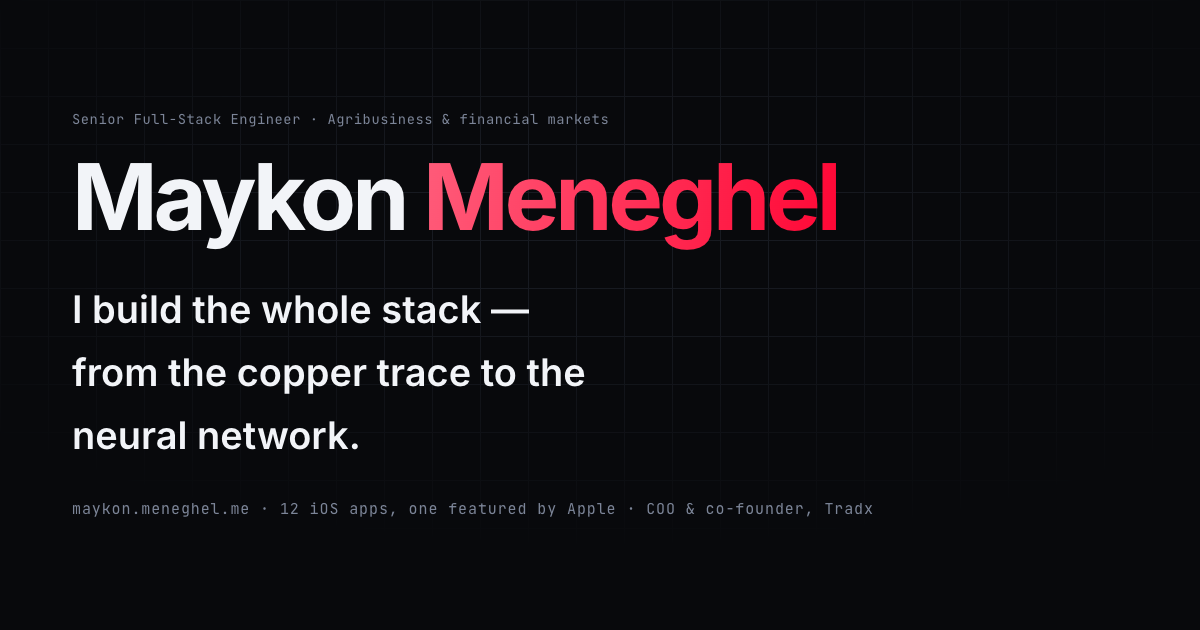
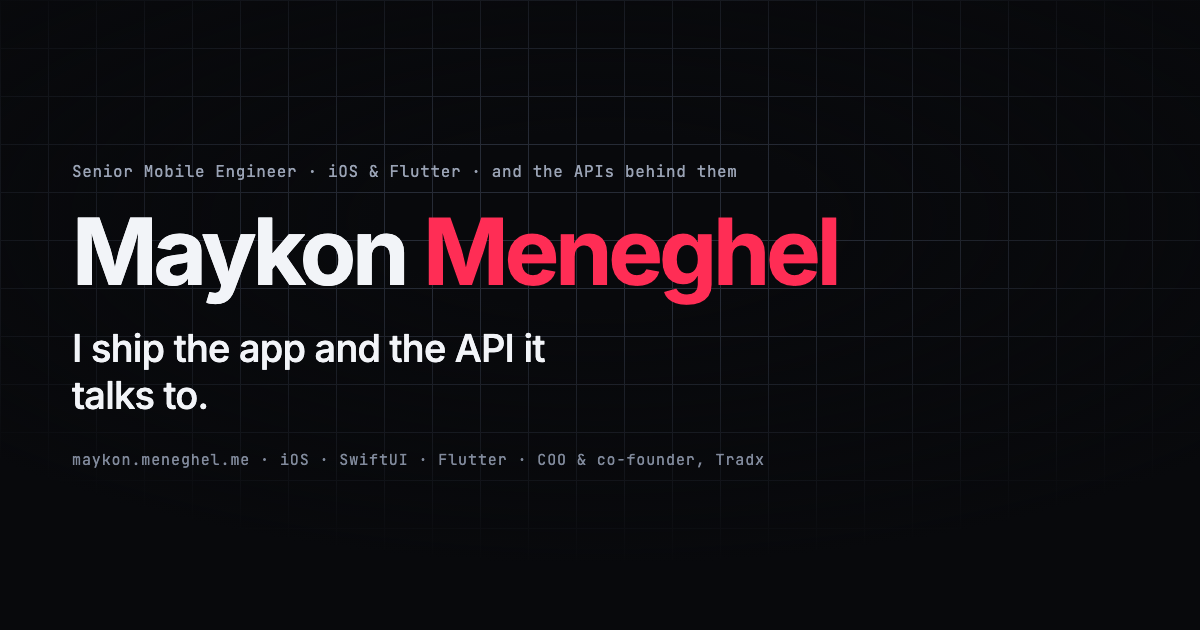
Make the page say the same thing everywhere it is read
A recruiter pass over the current state, and most of what it found was
not opinion — it was surfaces the mobile rebuild never reached.

The meta description still opened on firmware and PCBs. That is the line
Google prints, the line that renders when the link is pasted into Slack or
LinkedIn, and the first thing a screening model reads. It now says what
the hero says.

The closing line still read "from the solder joint to the model in
production — in agribusiness and in financial markets". The page opened on
mobile and closed on soldering, and a reader takes the last line as the
summary. It is now about the app and what it talks to.

Four cross-references broke when the hardware chapters moved to their own
page: the splatting chapter pointed at "chapter 03" for the mesh, which is
now the database chapter, and the GAN chapter ran its model on "the soil
probe from the chapters above", which are no longer above. They refer to
the thing instead of the number now.

And the share card still advertised twelve App Store apps, a week after
that claim came off every other surface. It was composed by stripping the
real hero and screenshotting it, which is both unrepeatable — the capture
never settles on a page whose chapters keep animating — and untied to the
copy, so nothing made it change when the copy did. There is a route for it
now, og.astro, with no scripts on it, and tools/build-og.sh to shoot it,
the same shape as the CV.
[…]

diff --git a/apps/maykon/src/content/es.ts b/apps/maykon/src/content/es.ts
@@ -4,7 +4,7 @@ export const es: Content = {
   meta: {
     title: 'Maykon Meneghel — el currículum jugable',
     description:
-      'Ingeniero full-stack sénior con máster y posgrado en IA. Firmware, PCBs, CAD, MQTT, Kubernetes, Swift y Flutter — explicados con minijuegos que puedes jugar en la propia página.',
+      'Ingeniero móvil sénior. iOS nativo en Swift y SwiftUI, multiplataforma en Flutter, y las APIs en Node, Java y Kubernetes detrás — explicados con mini-juegos que puedes jugar en la propia página.',
   },
   nav: { chapters: 'Capítulos', family: 'La familia', contact: 'Contacto', resume: 'Currículum' },
   hero: {
@@ -124,7 +124,7 @@ export const es: Content = {
       track: 'ai', codename: 'MENTE', slug: 'mind',
       era: 'StockGAN · 2021',
       title: 'Enseña a la máquina a adivinar qué viene después',
-      lede: 'En 2021 construí desde cero una red generativa adversaria para series temporales — el trabajo en el que mi posgrado en IA y mi máster en Bioingeniería dejan de ser líneas en un diploma — dos redes, una intentando inventar la siguiente lectura y otra intentando pillarla mintiendo. La entrené con datos financieros. Aquí corre sobre la sonda de suelo de los capítulos de arriba, sin cambiar nada, porque una serie temporal no sabe qué mide.',
+      lede: 'En 2021 construí desde cero una red generativa adversaria para series temporales — el trabajo en el que mi posgrado en IA y mi máster en Bioingeniería dejan de ser líneas en un diploma — dos redes, una intentando inventar la siguiente lectura y otra intentando pillarla mintiendo. La entrené con datos financieros. Aquí corre sobre una sonda de suelo que diseñé y enterré años antes, sin cambiar nada, porque una serie temporal no sabe qué mide.',
       panel: 'gan_model.py — train_step()',
       takeaway: 'Dos modelos, una función de pérdida y una perilla entre ellos. Exígele al pronosticador que quede cerca y responde con el promedio de todo, que es seguro e inútil. Exígele que sea creíble y responde con algo que se mueve como el sensor y no sabe nada. <b>Cada modelo que entrego es ese intercambio hecho a propósito</b>, escrito y medido.',
       stack: ['TensorFlow / Keras', 'GANs', 'LSTM', 'Series temporales', 'Selección de features con PCA y XGBoost'],
@@ -133,7 +133,7 @@ export const es: Content = {
       track: 'ai', codename: 'CAMPO', slug: 'field',
       era: 'Gaussian splatting · hoy',
       title: 'Y ahora el objeto está hecho de luz',
-      lede: 'En esto paso los días ahora: Gaussian Splatting. Una escena deja de ser una superficie que alguien modeló y pasa a ser una nube de gaussianas orientadas, ajustadas por descenso de gradiente hasta que sus renders coinciden con las fotografías. Las reconstrucciones de verdad empiezan con una cámara recorriendo una sala. La demo de abajo a propósito no lo hace — usa una pieza que ya conociste en el capítulo 03, porque la única forma de ver qué cambia el método es ver el mismo objeto construido de las dos formas.',
+      lede: 'En esto paso los días ahora: Gaussian Splatting. Una escena deja de ser una superficie que alguien modeló y pasa a ser una nube de gaussianas orientadas, ajustadas por descenso de gradiente hasta que sus renders coinciden con las fotografías. Las reconstrucciones de verdad empiezan con una cámara recorriendo una sala. La demo de abajo a propósito no lo hace — usa una pieza que yo mismo diseñé e imprimí, porque la única forma de ver qué cambia el método es ver el mismo objeto construido de las dos formas.',
       panel: 'gaussian splatting · viewer',
       takeaway: 'Una malla dice dónde están las <b>superficies</b>, y un ingeniero dibujó cada una. Un campo de splats dice dónde está la <b>luz</b>, y nadie dibujó nada — se ajustó hasta que el render dejó de contradecir a la fotografía.',
       stack: ['Gaussian Splatting', '3DGS', 'PyTorch', 'CUDA', 'Fotogrametría', 'Campos de radiancia'],
@@ -240,8 +240,8 @@ export const es: Content = {
       },
     },
     closing: {
-      line: 'Full stack sénior, desde el punto de soldadura hasta el modelo en producción — en el agro y en los mercados financieros.',
-      note: 'La placa, el firmware, el broker, la base de datos, el clúster, el modelo y la pantalla del móvil. Todavía no he conocido a la otra persona que hace los dos extremos de los dos.',
+      line: 'Construyo la app, y construyo aquello con lo que habla.',
+      note: 'La pantalla, el estado en ella, la API que la llena, la base de datos debajo, y el modelo que lo lee. La mayoría domina una de esas. Yo he entregado todas, y sigo sabiendo cuál es la parte difícil.',
     },
     contact: {
       title: 'Hablemos',
@@ -317,7 +317,7 @@ export const es: Content = {
     wasteful: 'sobredimensionado',
   },
   mind: {
-    lede: 'En 2021 escribí una GAN que pronostica el siguiente valor de una serie temporal — generador, discriminador y bucle de entrenamiento desde cero. La entrené con treinta años de barras diarias, porque ahí era donde había histórico limpio y gratis, pero la red lee log-retornos y no tiene ni idea de qué miden los números. Así que aquí está corriendo sobre la sonda de suelo de los capítulos de arriba. Lo que vale la pena mostrar es esto: el discriminador nunca juzga una lectura prevista por sí sola. La lectura se pega a las nueve reales que vinieron antes, y la red tiene que decir si la ventana entera salió del sensor. Ese es el juego. Tú eres el discriminador.',
+    lede: 'En 2021 escribí una GAN que pronostica el siguiente valor de una serie temporal — generador, discriminador y bucle de entrenamiento desde cero. La entrené con treinta años de barras diarias, porque ahí era donde había histórico limpio y gratis, pero la red lee log-retornos y no tiene ni idea de qué miden los números. Así que aquí está corriendo sobre una sonda de suelo que construí años antes de todo esto. Lo que vale la pena mostrar es esto: el discriminador nunca juzga una lectura prevista por sí sola. La lectura se pega a las nueve reales que vinieron antes, y la red tiene que decir si la ventana entera salió del sensor. Ese es el juego. Tú eres el discriminador.',
     paper: 'StockGAN · LSTM(128) · ventana de 10 · entrenada con 30 años de barras diarias, corriendo aquí sobre soil-1',
     reading: 'soil-1 · invernadero · % de humedad',
     question: 'Una de estas dos ventanas termina con una lectura que la sonda tomó de verdad. La otra termina con una que inventó el generador. ¿Cuál es cuál?',
@@ -558,7 +558,7 @@ export const es: Content = {
     reveal: 'Entre las 75.429 combinaciones de parámetros, el conjunto que más rindió en la mitad donde ajustaste quedó en el puesto 22.949 en la mitad que no viste. Del primer puesto al vigésimo segundo milésimo. Por eso un backtest es una hipótesis y no un resultado, y por eso el número bonito es la parte fácil.',
   },
   field: {
-    lede: 'Un objeto, construido dos veces. A un lado del interruptor es la malla del capítulo 03, con la que se imprimió la pieza. Al otro es un campo de gaussianas sobre esa misma malla — repartidas aquí en vez de ajustadas, para que los dos queden lado a lado y la diferencia sea el método y nada más.',
+    lede: 'Un objeto, construido dos veces. A un lado del interruptor es la malla con la que se imprimió la pieza. Al otro es un campo de gaussianas sobre esa misma malla — repartidas aquí en vez de ajustadas, para que los dos queden lado a lado y la diferencia sea el método y nada más.',
     mesh: 'Malla', splats: 'Gaussianas',
     count: 'Gaussianas', size: 'Dispersión', spin: 'arrastra para girar',
     primitives: 'Primitivas', authored: 'Hechas a mano',

diff --git a/apps/maykon/src/content/pt.ts b/apps/maykon/src/content/pt.ts
@@ -4,7 +4,7 @@ export const pt: Content = {
   meta: {
     title: 'Maykon Meneghel — o currículo jogável',
     description:
-      'Engenheiro full-stack sênior com mestrado e pós em IA. Firmware, PCBs, CAD, MQTT, Kubernetes, Swift e Flutter — explicados em mini-jogos que você joga na própria página.',
+      'Engenheiro mobile sênior. iOS nativo em Swift e SwiftUI, cross-platform em Flutter, e as APIs em Node, Java e Kubernetes por trás — explicados através de mini-jogos que você joga na própria página.',
   },
   nav: { chapters: 'Capítulos', family: 'A família', contact: 'Contato', resume: 'Currículo' },
   hero: {
@@ -124,7 +124,7 @@ export const pt: Content = {
       track: 'ai', codename: 'MENTE', slug: 'mind',
       era: 'StockGAN · 2021',
       title: 'Ensine a máquina a adivinhar o que vem depois',
-      lede: 'Em 2021 eu construí do zero uma rede adversária generativa para séries temporais — o trabalho em que a minha pós em IA e o mestrado em Bioengenharia deixam de ser linhas num diploma — duas redes, uma tentando inventar a próxima leitura e outra tentando pegá-la mentindo. Eu treinei em dados financeiros. Ela roda aqui na sonda de solo dos capítulos acima, sem mudar nada, porque uma série temporal não sabe o que ela mede.',
+      lede: 'Em 2021 eu construí do zero uma rede adversária generativa para séries temporais — o trabalho em que a minha pós em IA e o mestrado em Bioengenharia deixam de ser linhas num diploma — duas redes, uma tentando inventar a próxima leitura e outra tentando pegá-la mentindo. Eu treinei em dados financeiros. Ela roda aqui numa sonda de solo que eu projetei e enterrei anos antes, sem mudar nada, porque uma série temporal não sabe o que ela mede.',
       panel: 'gan_model.py — train_step()',
       takeaway: 'Dois modelos, uma função de perda e um botão entre eles. Cobre do previsor que ele fique perto e ele responde com a média de tudo, que é segura e inútil. Cobre que ele seja crível e ele responde com algo que anda como o sensor e não sabe de nada. <b>Todo modelo que eu entrego é essa troca feita de propósito</b>, escrita e medida.',
       stack: ['TensorFlow / Keras', 'GANs', 'LSTM', 'Séries temporais', 'Seleção de features com PCA e XGBoost'],
@@ -133,7 +133,7 @@ export const pt: Content = {
       track: 'ai', codename: 'CAMPO', slug: 'field',
       era: 'Gaussian splatting · hoje',
       title: 'E agora o objeto é feito de luz',
-      lede: 'É nisso que eu passo os dias agora: Gaussian Splatting. Uma cena deixa de ser uma superfície que alguém modelou e vira uma nuvem de gaussianas orientadas, ajustadas por gradiente descendente até que renders delas batam com as fotografias. Reconstruções de verdade começam com uma câmera andando pela sala. A demo aqui embaixo de propósito não faz isso — ela usa uma peça que você já conheceu no capítulo 03, porque o único jeito de ver o que o método muda é ver o mesmo objeto construído dos dois jeitos.',
+      lede: 'É nisso que eu passo os dias agora: Gaussian Splatting. Uma cena deixa de ser uma superfície que alguém modelou e vira uma nuvem de gaussianas orientadas, ajustadas por gradiente descendente até que renders delas batam com as fotografias. Reconstruções de verdade começam com uma câmera andando pela sala. A demo aqui embaixo de propósito não faz isso — ela usa uma peça que eu mesmo projetei e imprimi, porque o único jeito de ver o que o método muda é ver o mesmo objeto construído dos dois jeitos.',
       panel: 'gaussian splatting · viewer',
       takeaway: 'Uma malha diz onde estão as <b>superfícies</b>, e um engenheiro desenhou cada uma. Um campo de splats diz onde está a <b>luz</b>, e ninguém desenhou nada — ele foi ajustado até o render parar de discordar da fotografia.',
       stack: ['Gaussian Splatting', '3DGS', 'PyTorch', 'CUDA', 'Fotogrametria', 'Campos de radiância'],
@@ -240,8 +240,8 @@ export const pt: Content = {
       },
     },
     closing: {
-      line: 'Full stack sênior, do ponto de solda ao modelo em produção — no agro e no mercado financeiro.',
-      note: 'A placa, o firmware, o broker, o banco, o cluster, o modelo e a tela do celular. Ainda não conheci a outra pessoa que faz as duas pontas dos dois.',
+      line: 'Eu construo o app, e construo aquilo com que ele conversa.',
+      note: 'A tela, o estado nela, a API que a preenche, o banco embaixo disso, e o modelo que lê tudo. A maioria das pessoas domina uma dessas. Eu já entreguei todas, e ainda sei qual é a parte difícil.',
     },
     contact: {
       title: 'Fale comigo',
@@ -317,7 +317,7 @@ export const pt: Content = {
     wasteful: 'superdimensionado',
   },
   mind: {
-    lede: 'Em 2021 eu escrevi uma GAN que prevê o próximo valor de uma série temporal — gerador, discriminador e loop de treino do zero. Eu treinei em trinta anos de barras diárias, porque era ali que havia histórico limpo de graça, mas a rede lê log-retornos e não faz ideia do que os números medem. Então aqui ela está rodando na sonda de solo dos capítulos acima. A parte que vale mostrar é esta: o discriminador nunca julga uma leitura prevista sozinha. A leitura é colada nas nove reais que vieram antes, e a rede precisa dizer se a janela inteira saiu do sensor. É esse o jogo. Você é o discriminador.',
+    lede: 'Em 2021 eu escrevi uma GAN que prevê o próximo valor de uma série temporal — gerador, discriminador e loop de treino do zero. Eu treinei em trinta anos de barras diárias, porque era ali que havia histórico limpo de graça, mas a rede lê log-retornos e não faz ideia do que os números medem. Então aqui ela está rodando numa sonda de solo que eu construí anos antes de tudo isso. A parte que vale mostrar é esta: o discriminador nunca julga uma leitura prevista sozinha. A leitura é colada nas nove reais que vieram antes, e a rede precisa dizer se a janela inteira saiu do sensor. É esse o jogo. Você é o discriminador.',
     paper: 'StockGAN · LSTM(128) · janela de 10 · treinada em 30 anos de barras diárias, rodando aqui no soil-1',
     reading: 'soil-1 · estufa · % de umidade',
     question: 'Uma destas duas janelas termina com uma leitura que a sonda realmente fez. A outra termina com uma que o gerador inventou. Qual é qual?',
@@ -558,7 +558,7 @@ export const pt: Content = {
     reveal: 'Entre as 75.429 combinações de parâmetros, o conjunto que mais rendeu na metade em que você ajustou ficou em 22.949º lugar na metade que você não viu. Do primeiro lugar para o vigésimo segundo milésimo. É por isso que um backtest é uma hipótese e não um resultado, e por isso o número bonito é a parte fácil.',
   },
   field: {
-    lede: 'Um objeto, construído duas vezes. De um lado da chave é a malha do capítulo 03, aquela pela qual a peça foi impressa. Do outro é um campo de gaussianas sobre essa mesma malha — espalhadas aqui em vez de ajustadas, para os dois ficarem lado a lado e a diferença ser o método e mais nada.',
+    lede: 'Um objeto, construído duas vezes. De um lado da chave é a malha pela qual a peça foi impressa. Do outro é um campo de gaussianas sobre essa mesma malha — espalhadas aqui em vez de ajustadas, para os dois ficarem lado a lado e a diferença ser o método e mais nada.',
     mesh: 'Malha', splats: 'Gaussianas',
     count: 'Gaussianas', size: 'Espalhamento', spin: 'arraste para girar',
     primitives: 'Primitivas', authored: 'Feitas à mão',

diff --git a/apps/maykon/src/content/en.ts b/apps/maykon/src/content/en.ts
@@ -4,7 +4,7 @@ export const en: Content = {
   meta: {
     title: 'Maykon Meneghel — the playable CV',
     description:
-      'Senior full-stack engineer with a Master in AI. Firmware, PCBs, CAD, MQTT, Kubernetes, Swift and Flutter — explained through mini-games you can play right on the page.',
+      'Senior mobile engineer. Native iOS in Swift and SwiftUI, cross-platform in Flutter, and the Node, Java and Kubernetes APIs behind them — explained through mini-games you can play right on the page.',
   },
   nav: { chapters: 'Chapters', family: 'The family', contact: 'Contact', resume: 'Résumé' },
   hero: {
@@ -124,7 +124,7 @@ export const en: Content = {
       track: 'ai', codename: 'MIND', slug: 'mind',
       era: 'StockGAN · 2021',
       title: 'Teach the machine to guess what happens next',
-      lede: 'In 2021 I built a generative adversarial network for time series from scratch — the work where my postgraduate specialization in AI and my Master in Bioengineering stop being lines on a diploma — two networks, one trying to invent the next reading and one trying to catch it lying. I trained it on financial data. It runs here on the soil probe from the chapters above, unchanged, because a time series does not know what it measures.',
+      lede: 'In 2021 I built a generative adversarial network for time series from scratch — the work where my postgraduate specialization in AI and my Master in Bioengineering stop being lines on a diploma — two networks, one trying to invent the next reading and one trying to catch it lying. I trained it on financial data. It runs here on a soil probe I designed and buried years earlier, unchanged, because a time series does not know what it measures.',
       panel: 'gan_model.py — train_step()',
       takeaway: 'Two models, one loss function, and a knob between them. Grade the forecaster on being close and it answers with the average of everything, which is safe and useless. Grade it on being believable and it answers with something that moves like the sensor and knows nothing. <b>Every model I ship is that trade made on purpose</b>, written down, and measured.',
       stack: ['TensorFlow / Keras', 'GANs', 'LSTM', 'Time series', 'PCA & XGBoost feature selection'],
@@ -133,7 +133,7 @@ export const en: Content = {
       track: 'ai', codename: 'FIELD', slug: 'field',
       era: 'Gaussian splatting · today',
       title: 'And now the object is made of light',
-      lede: 'What I spend my days on now: Gaussian Splatting. A scene stops being a surface someone modelled and becomes a cloud of oriented gaussians, fitted by gradient descent until renders of them match the photographs. Real reconstructions start from a camera walking around a room. The demo below deliberately does not — it uses a part you already met in chapter 03, because the only way to see what the method changes is to watch the same object built both ways.',
+      lede: 'What I spend my days on now: Gaussian Splatting. A scene stops being a surface someone modelled and becomes a cloud of oriented gaussians, fitted by gradient descent until renders of them match the photographs. Real reconstructions start from a camera walking around a room. The demo below deliberately does not — it uses a part I designed and printed myself, because the only way to see what the method changes is to watch the same object built both ways.',
       panel: 'gaussian splatting · viewer',
       takeaway: 'A mesh says where the <b>surfaces</b> are, and an engineer drew every one. A splat field says where the <b>light</b> is, and nobody drew any of it — it was fitted until the render stopped disagreeing with the photograph.',
       stack: ['Gaussian Splatting', '3DGS', 'PyTorch', 'CUDA', 'Photogrammetry', 'Radiance fields'],
@@ -240,8 +240,8 @@ export const en: Content = {
       },
     },
     closing: {
-      line: 'Senior full-stack, from the solder joint to the model in production — in agribusiness and in financial markets.',
-      note: 'The board, the firmware, the broker, the database, the cluster, the model and the screen on the phone. I have yet to meet the other person who does both ends of both.',
+      line: 'I build the app, and I build what it talks to.',
+      note: 'The screen, the state on it, the API that fills it, the database under that, and the model that reads it. Most people own one of those. I have shipped all of them, and I still know which one is the hard part.',
     },
     contact: {
       title: 'Talk to me',
@@ -317,7 +317,7 @@ export const en: Content = {
     wasteful: 'over-provisioned',
   },
   mind: {
-    lede: 'In 2021 I wrote a GAN that forecasts the next value of a time series — generator, discriminator and training loop from scratch. I trained it on thirty years of daily bars, because that is where clean history was free, but the network reads log returns and has no idea what the numbers measure. So here it is running on the soil probe from the chapters above. The part worth showing is this: the discriminator never judges a predicted reading on its own. The reading is glued onto the nine real ones before it, and the network has to say whether the whole window came off the sensor. That is the game. You are the discriminator.',
+    lede: 'In 2021 I wrote a GAN that forecasts the next value of a time series — generator, discriminator and training loop from scratch. I trained it on thirty years of daily bars, because that is where clean history was free, but the network reads log returns and has no idea what the numbers measure. So here it is running on a soil probe I built years before any of this. The part worth showing is this: the discriminator never judges a predicted reading on its own. The reading is glued onto the nine real ones before it, and the network has to say whether the whole window came off the sensor. That is the game. You are the discriminator.',
     paper: 'StockGAN · LSTM(128) · window of 10 · trained on 30 years of daily bars, running here on soil-1',
     reading: 'soil-1 · greenhouse · % moisture',
     question: 'One of these two windows ends with a reading the probe actually took. The other ends with one the generator invented. Which is which?',
@@ -558,7 +558,7 @@ export const en: Content = {
     reveal: 'Across all 75,429 parameter combinations, the set that returned most on the half you tuned on came 22,949th on the half you had not seen. First place to twenty-two thousandth. That is why a backtest is a hypothesis and not a result, and why the beautiful number is the easy part.',
   },
   field: {
-    lede: 'One object, built twice. On the left of the switch it is the mesh from chapter 03, the one the part was printed from. On the right it is a field of gaussians over that same mesh — scattered here rather than fitted, so the two can sit side by side and the difference is the method and nothing else.',
+    lede: 'One object, built twice. On the left of the switch it is the mesh the part was printed from. On the right it is a field of gaussians over that same mesh — scattered here rather than fitted, so the two can sit side by side and the difference is the method and nothing else.',
     mesh: 'Mesh', splats: 'Gaussians',
     count: 'Gaussians', size: 'Spread', spin: 'drag to turn',
     primitives: 'Primitives', authored: 'Authored by hand',

diff --git a/README.md b/README.md
@@ -188,6 +188,24 @@ Primary `#FF2D55`, sampled directly out of `Portfolio-2024.pdf` — which happen
 to be Apple's system pink, fitting for someone who came up through the Apple
 Developer Academy. Deep accent `#FF0635`.
 
+## The share card
+
+`apps/maykon/src/pages/og.astro` is the Open Graph card as a route with no
+scripts on it, and `tools/build-og.sh` shoots it with headless Chrome. Run it
+whenever the hero changes:
+
+```sh
+npm run build && ./tools/build-og.sh && npm run build
+```
+
+It exists because the first version was composed by stripping the real hero and
+screenshotting that, which meant capturing a page whose chapters never stop
+animating — the capture would not settle. Worse, nothing tied the card to the
+copy, so it went on advertising twelve App Store apps for a week after that
+claim came off every other surface. The card is the first thing anyone sees when
+the link is pasted; it is the easiest thing here to leave saying something that
+is no longer true.
+
 ## The CV
 
 `apps/maykon/src/pages/cv.astro` is the CV as a page: one column, real text,
